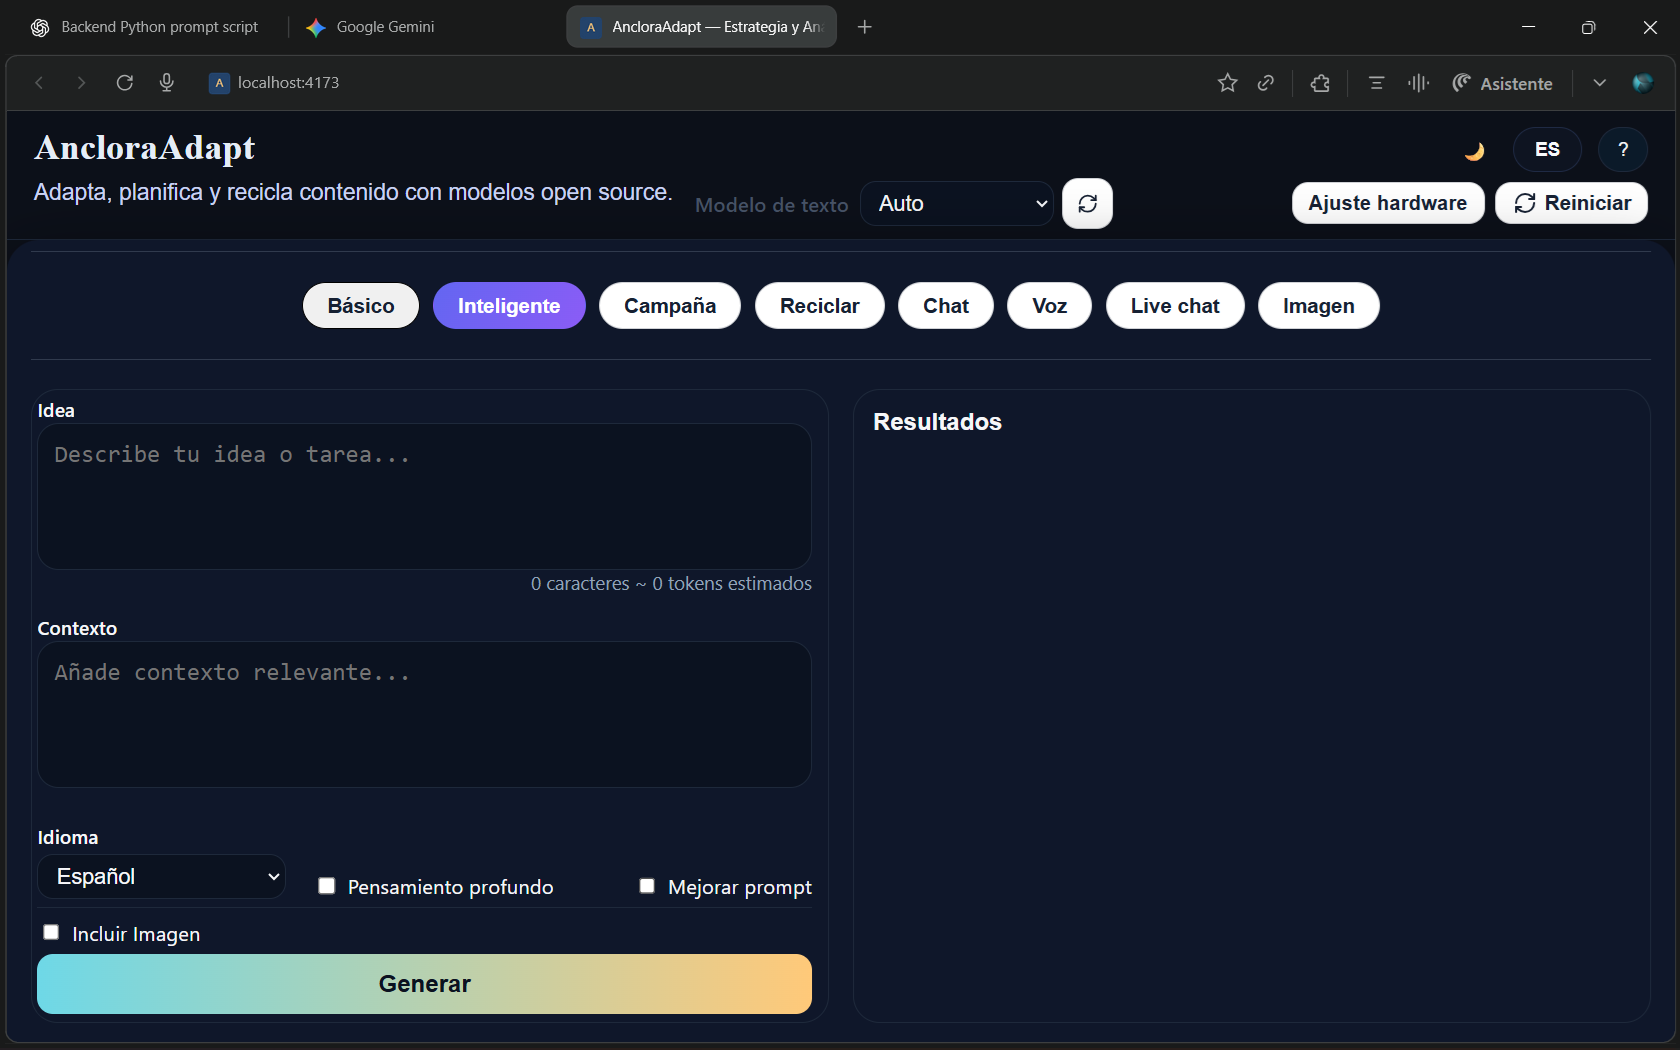
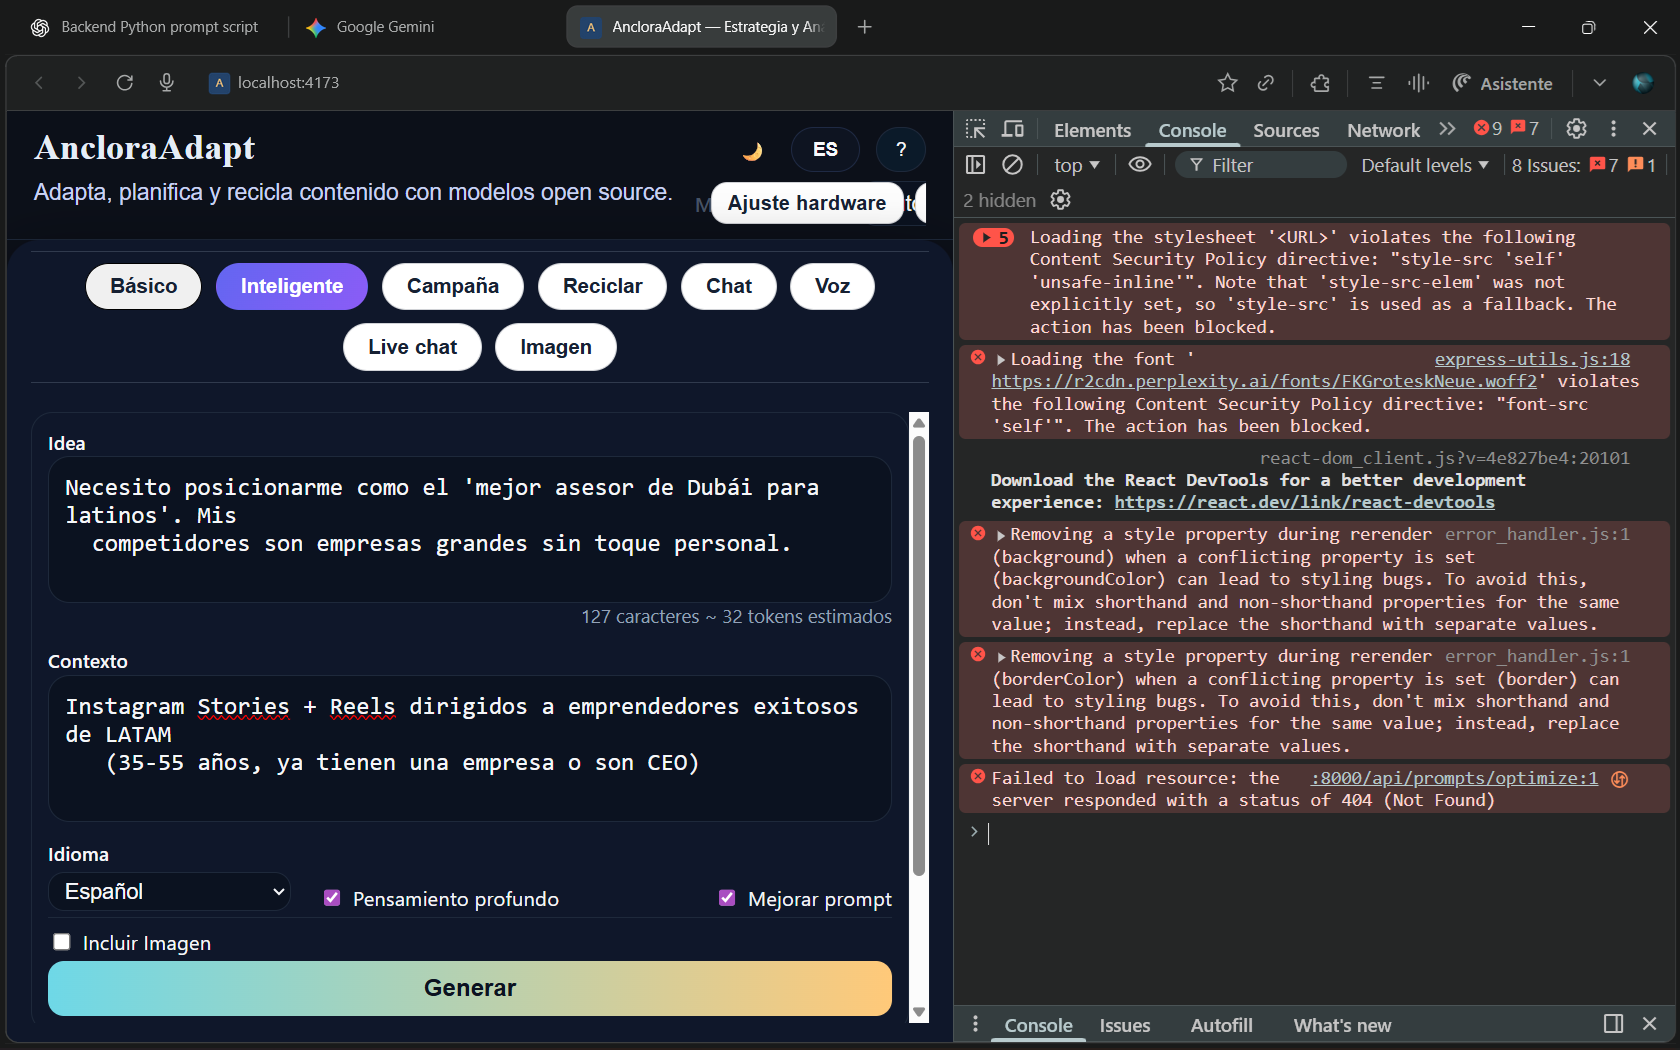
fix: Add graceful fallback for prompt optimizer when backend unavailable
When the prompt optimizer endpoint is unavailable or returns an error,
the frontend now:
1. Falls back to using the raw prompt without optimization
2. Logs the error to console for debugging
3. Continues with generation instead of failing completely
4. Shows optional warning message if optimization fails

This ensures the app remains functional even if:
- Backend is not running
- Ollama/Qwen2.5 model is not available
- Network error occurs when calling optimizer

Changes:
- Refactored API URL construction for clarity
- Added error handling with graceful degradation
- Removed hard failure, allowing raw prompt fallback
- Added console warnings for debugging

The user can still check "Mejorar prompt" and it will try to optimize,
but if it fails, the app will use the raw prompt anyway.

🤖 Generated with Claude Code

diff --git a/src/components/modes/IntelligentMode.tsx b/src/components/modes/IntelligentMode.tsx
@@ -165,9 +165,9 @@ const IntelligentMode: React.FC<IntelligentModeProps> = ({
       // Step 2: If improvePrompt is checked, optimize the prompt using backend
       if (improvePrompt) {
         try {
-          const response = await fetch(
-            `${import.meta.env.VITE_API_BASE_URL || "http://localhost:8000"}/api/prompts/optimize`,
-            {
+          const API_BASE_URL = import.meta.env.VITE_API_BASE_URL || "http://localhost:8000";
+          const optimizeUrl = `${API_BASE_URL}/api/prompts/optimize`;
+          const response = await fetch(optimizeUrl, {
               method: "POST",
               headers: { "Content-Type": "application/json" },
               body: JSON.stringify({
@@ -188,16 +188,14 @@ const IntelligentMode: React.FC<IntelligentModeProps> = ({
           if (optimizeResult.success) {
             finalPrompt = optimizeResult.improved_prompt;
           } else {
-            setError(optimizeResult.error || "Error al optimizar el prompt");
-            return;
+            // If optimization fails, use raw prompt and show warning
+            console.warn("Prompt optimization failed, using raw prompt:", optimizeResult.error);
+            setError(`Aviso: No se pudo optimizar el prompt. Usando versión original.`);
           }
         } catch (optimizeErr) {
-          setError(
-            `Error al conectar con el optimizador: ${
-              optimizeErr instanceof Error ? optimizeErr.message : "Error desconocido"
-            }`
-          );
-          return;
+          // If backend is unavailable, use raw prompt with warning
+          console.warn("Prompt optimizer unavailable, using raw prompt:", optimizeErr);
+          // Continue with raw prompt instead of failing
         }
       }
 
